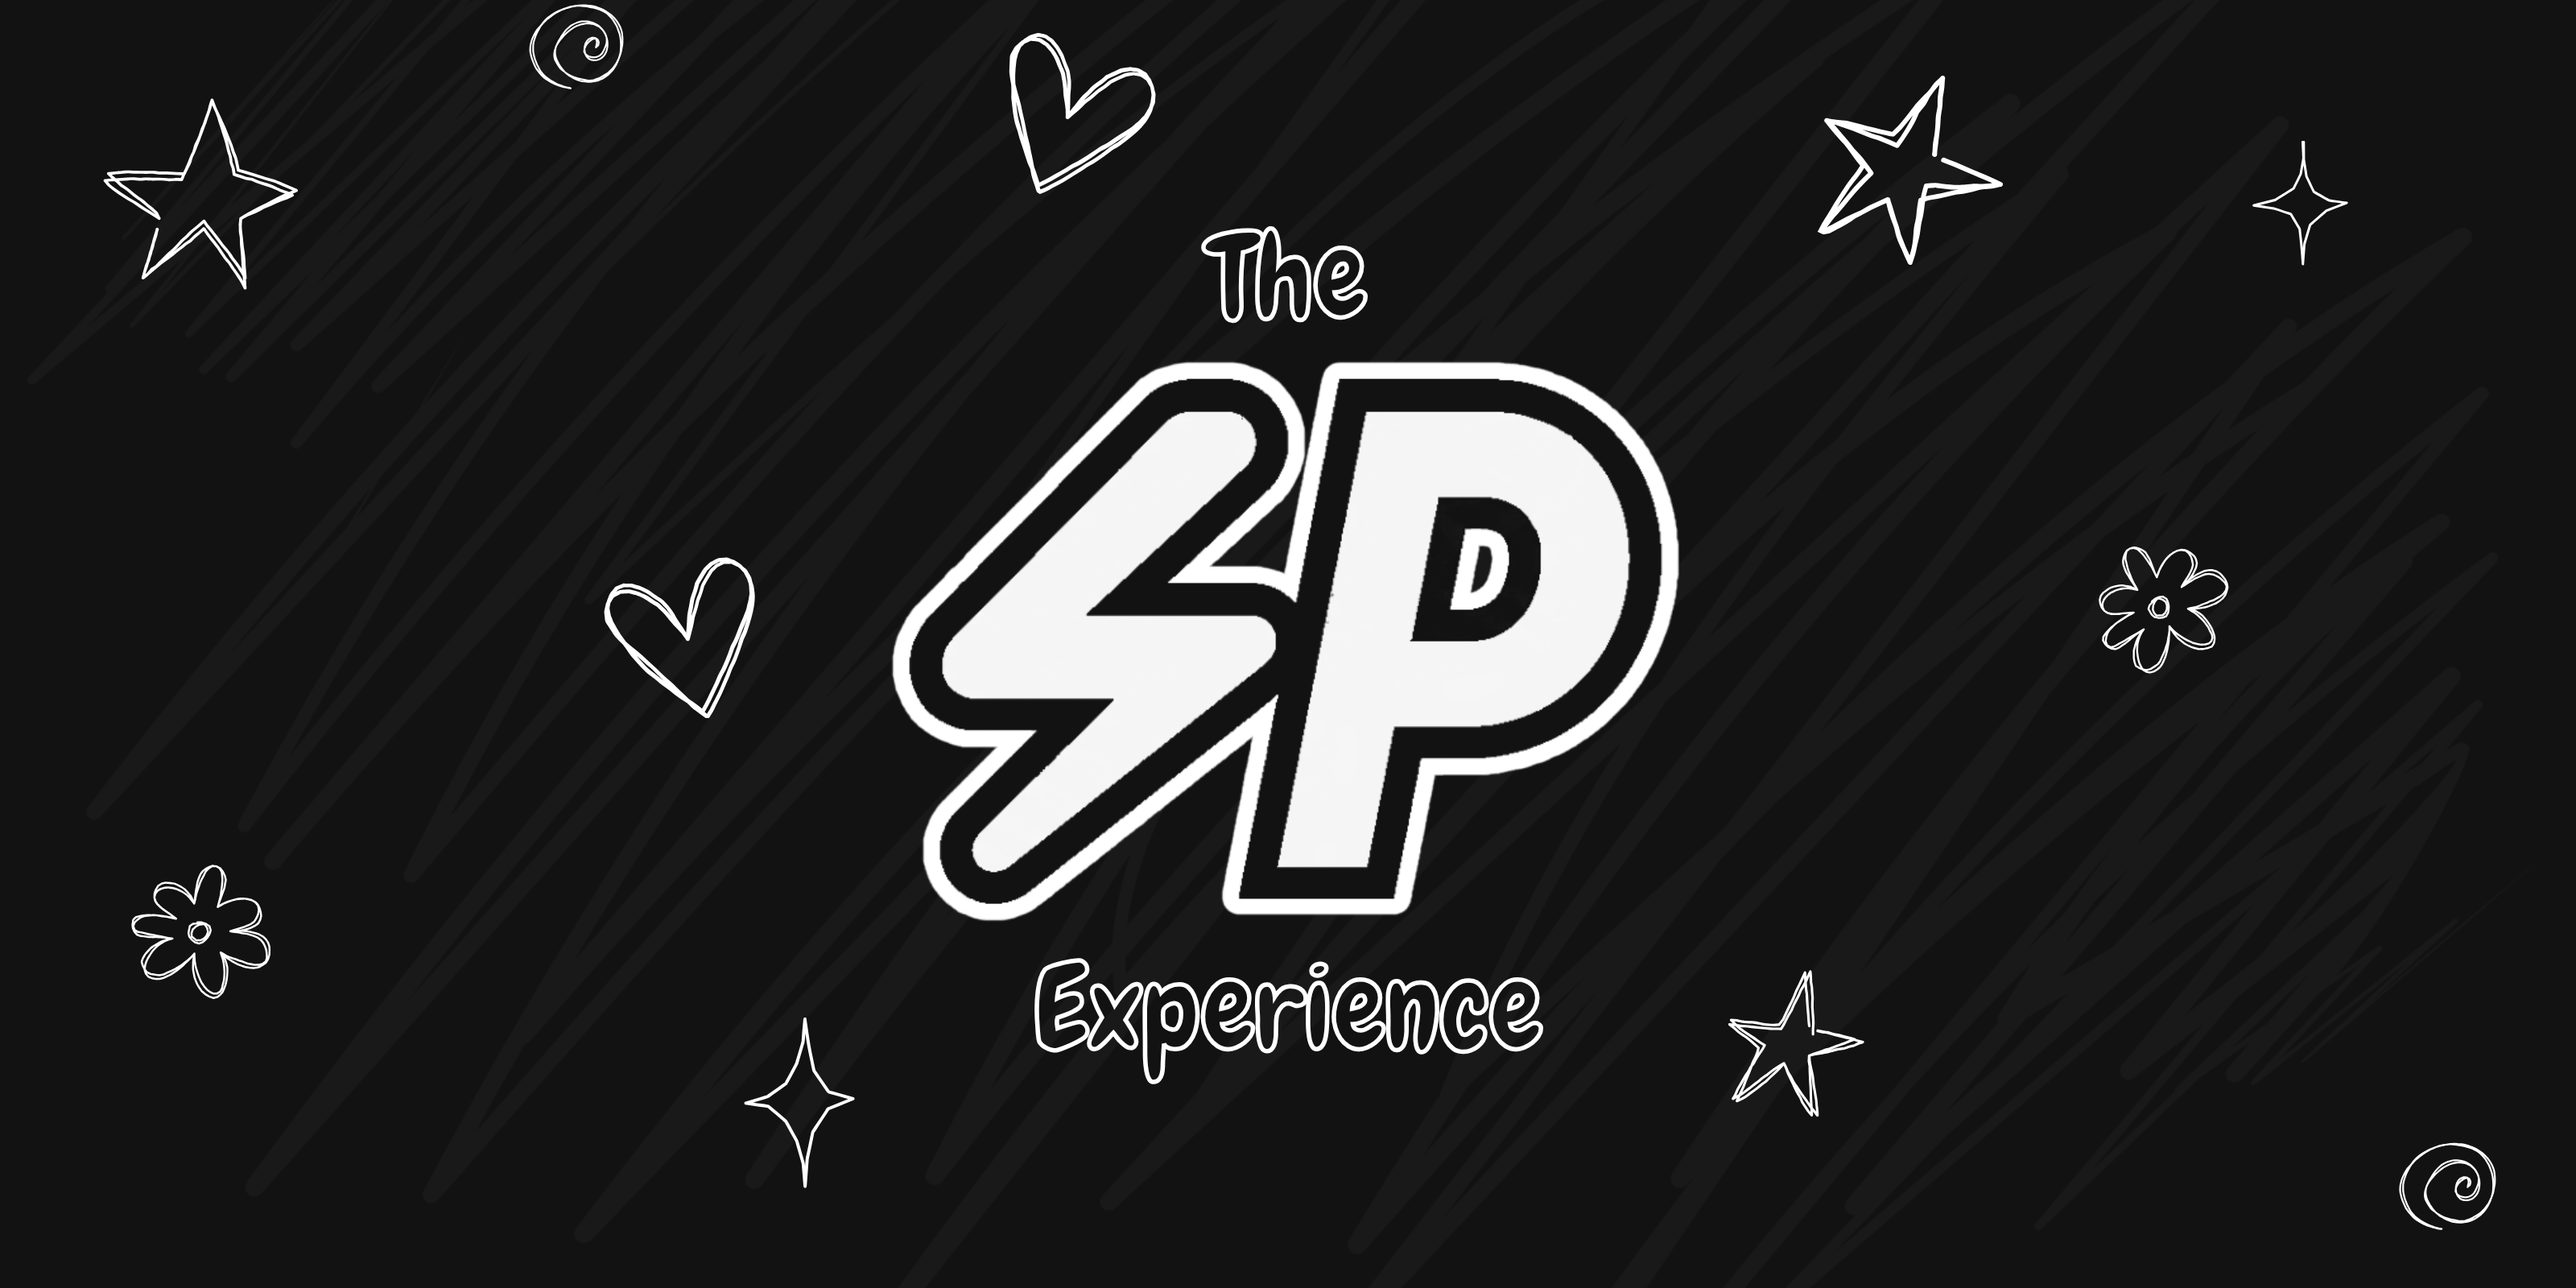
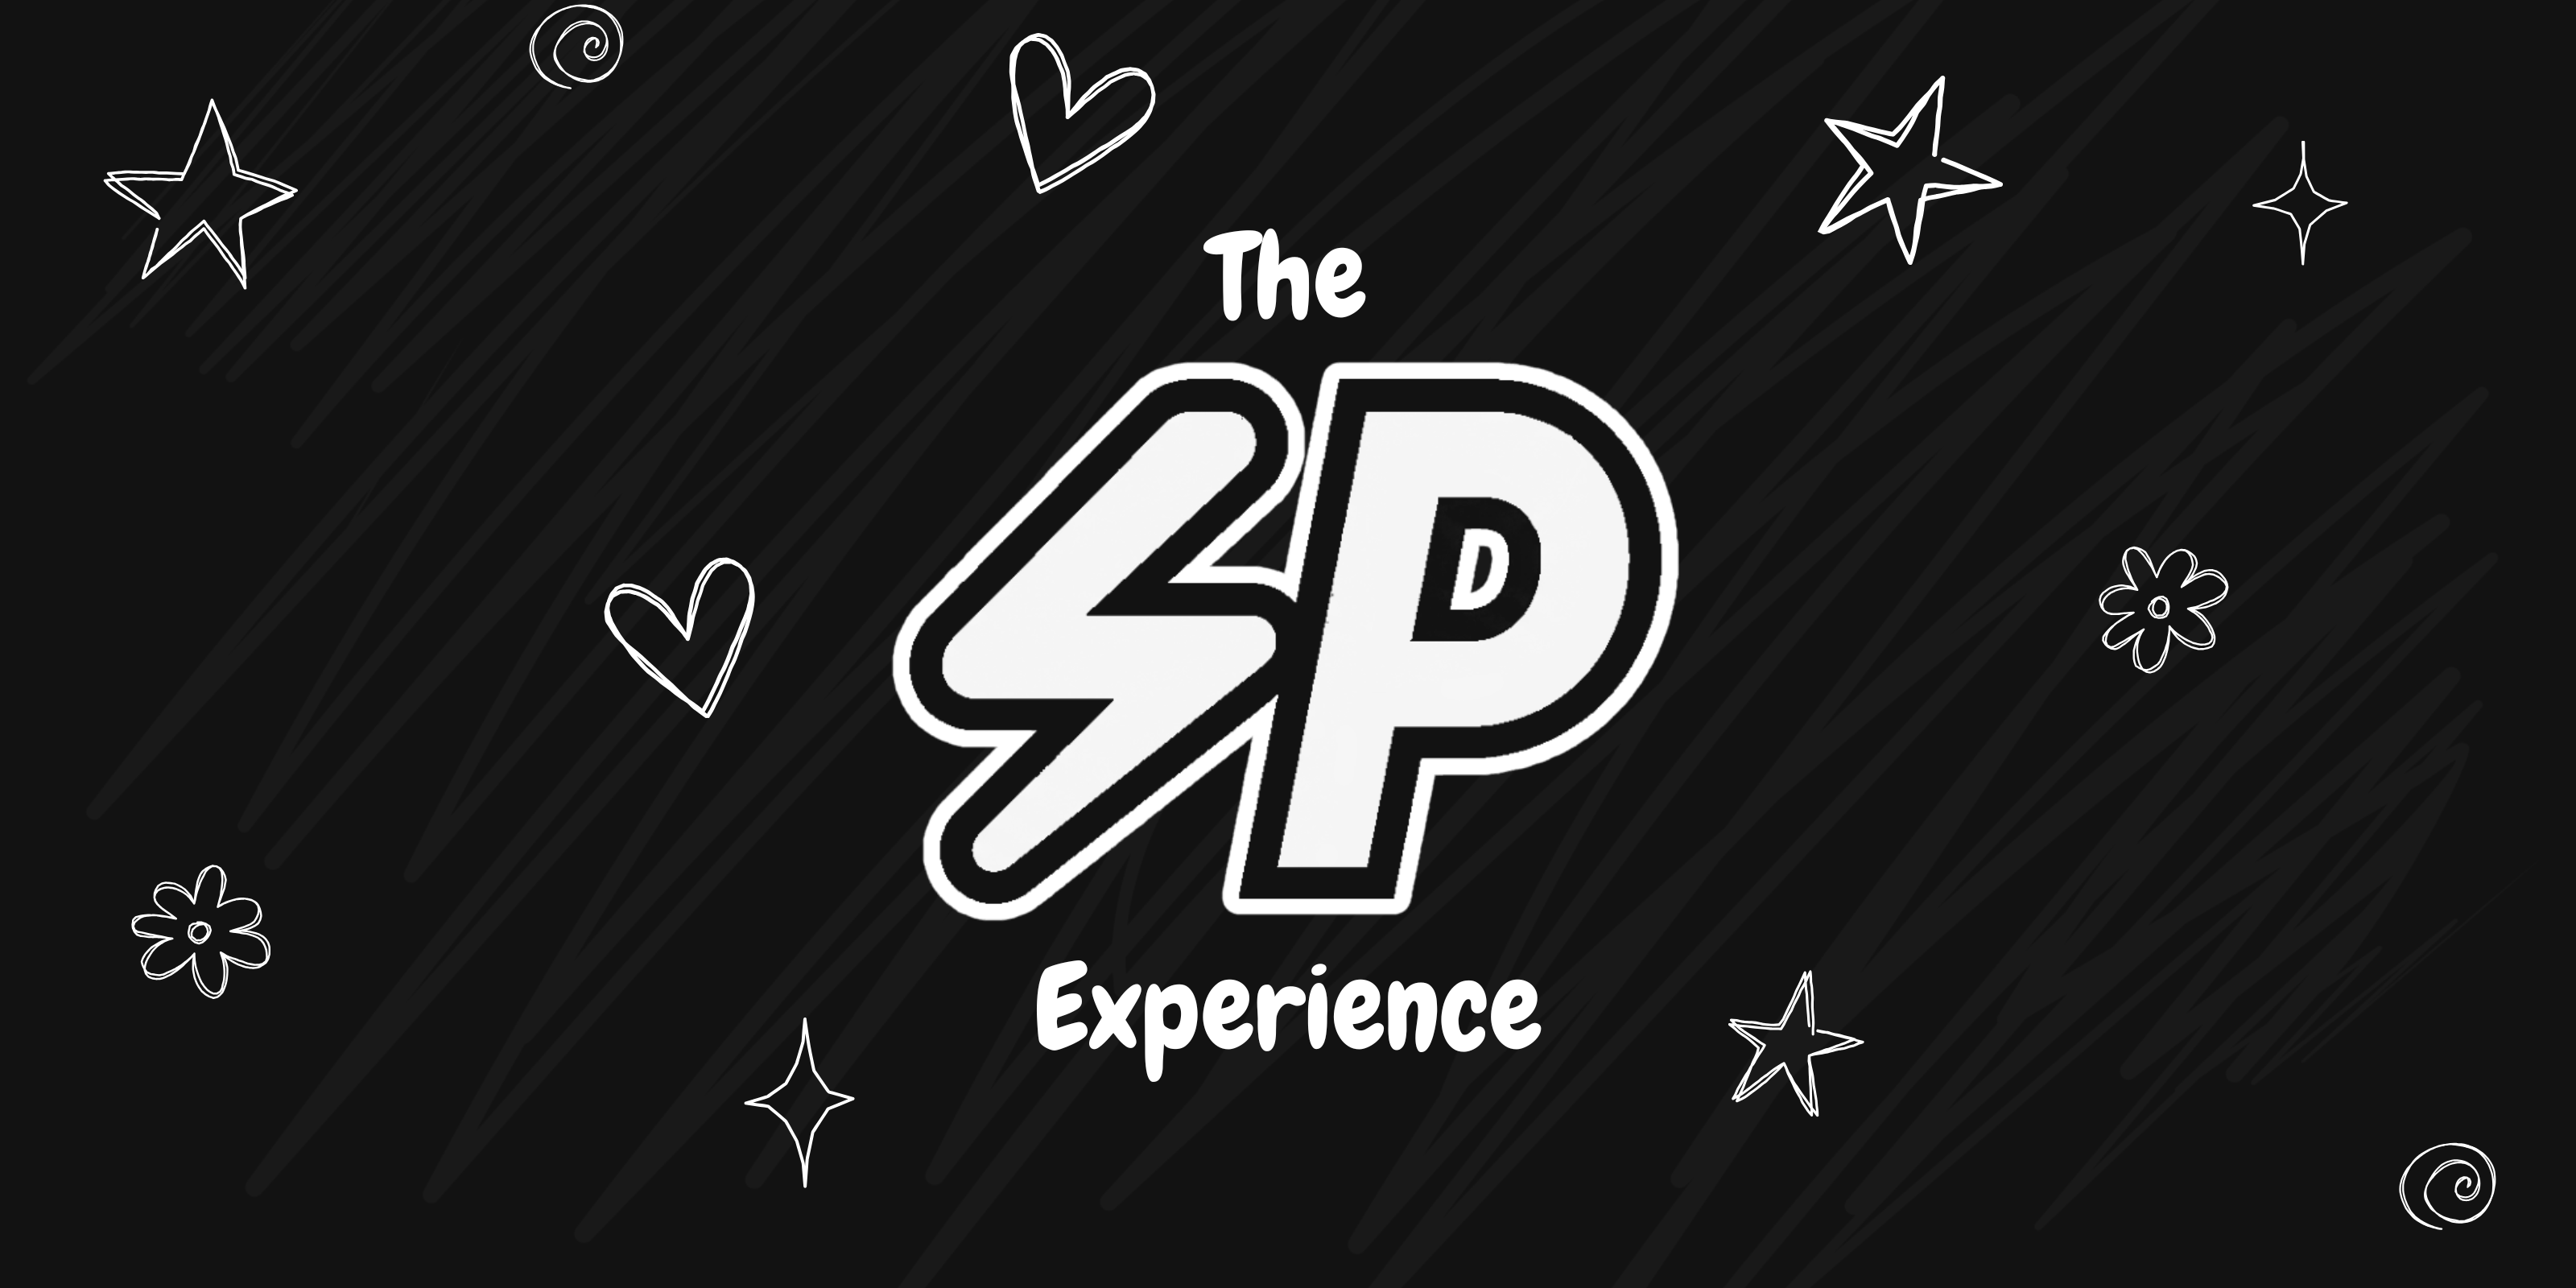
New Post

Changed region(s): [[0.375, 0.75, 0.5938, 0.8438], [0.4688, 0.1562, 0.5312, 0.25]]

diff --git a/src/content/blog/Update4.md b/src/content/blog/Update4.md
@@ -1,0 +1,19 @@
+---
+title: 'WebUpdate 04'
+description: 'Stuff.'
+pubDate: 'Jul 08 2026'
+heroImage: '../../assets/WebUpdate04.png'
+---
+Fourth Update on me.
+##### New Stuff
+I've realised it would probably be for the best if I gradually went and increased social difficulty up until the launch of The Stella Pique Experience / Show, whatever you wanna call it. My eyes were opened to this fact today when I failed at being as sociable as I wanted to be. I failed countless times by being too afraid to say something so I just stayed quiet, which is the opposite of what I aim to achieve. Though however I was pretty alright compared to... no one. No one worth mentioning in this context at least. I'm not gonna lie I remembered it more positively than it actually happened so I was actually going to finish the sentence originally though I guess not.
+
+I've also gotten another idea to help me target specific parts and weaknesses of my social being which is to bring back T.U.T. If you don't know what that is (I know you don't because I cut off everyone), it was one of my first projectiations, with the goal in mind to help me rank things, people, attributes, all kinds of things (hence universal). Since this is the third time I bring back this absolute gem of an idea, I'll try to refine it into a more compact and simple to understand system so I don't waste too much time just learning the vocabulary which will just be outdated soon. Not that I'd do that anyways though.
+
+Following the return of T.U.T 3.0 I'll also need a refined HoL (Hexad Of Light) wheel, specifically the CHA ability. Clarity, Determination, Ambition, Imagium and Love will be looked into.
+
+I've been neglecting some of my duties and tasks at hand, most importantly creating music for my team. I'm not proud of it, and I plan to get back into the game as soon as I stabilise every new project and task, school, and PSP:Mint:Structory.
+
+##### What's next
+
+I've opened a new PSP Phase, so I'll be making some changes to my behaviour as listed and unlisted above.